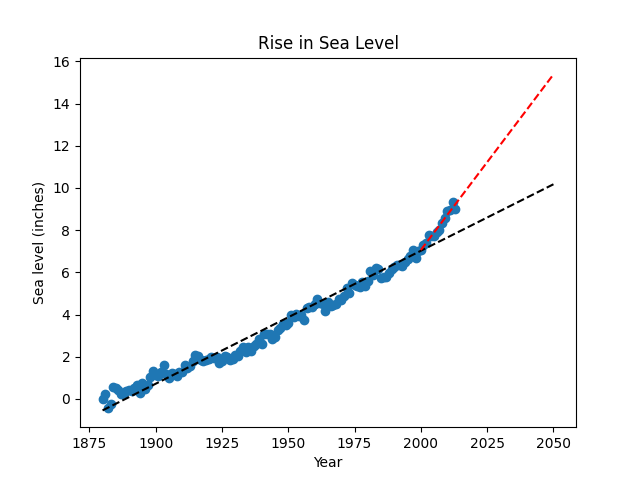
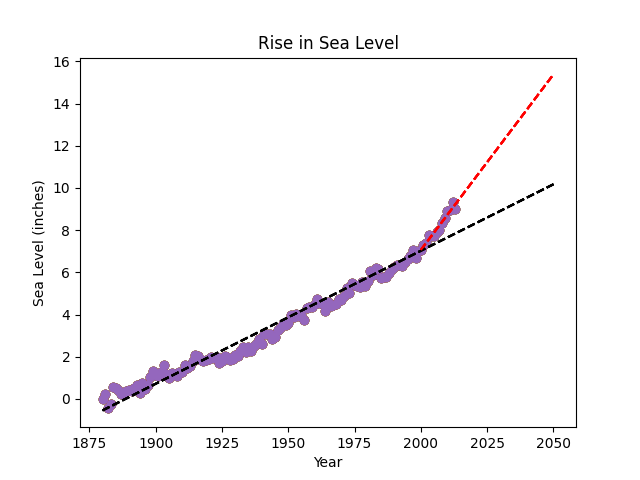
pushing solution 2

diff --git a/sea_level_predictor.py b/sea_level_predictor.py
@@ -13,18 +13,18 @@ def draw_plot():
     # Create first line of best fit
     s, i, t1, t2, t3 = linregress(x=df['Year'], y=df['CSIRO Adjusted Sea Level'])
     
-    x = np.linspace(1880, 2050, 170)
+    x = np.linspace(1880, 2050, 171)
     plt.plot(x, s*x+i, color='k', linestyle='--')
 
     # Create second line of best fit
-    x2 = np.linspace(2000, 2050, 50)
+    x2 = np.linspace(2000, 2050, 51)
     s2, i2, t1, t2, t3 = linregress(x=df[df['Year']>=2000]['Year'], y=df[df['Year']>=2000]['CSIRO Adjusted Sea Level'])
 
     plt.plot(x2, s2*x2+i2, color='r', linestyle='--')
 
     # Add labels and title
     plt.xlabel('Year')
-    plt.ylabel('Sea level (inches)')
+    plt.ylabel('Sea Level (inches)')
     plt.title('Rise in Sea Level')
     
     # Save plot and return data for testing (DO NOT MODIFY)

diff --git a/main.py b/main.py
@@ -6,4 +6,4 @@ from unittest import main
 sea_level_predictor.draw_plot()
 
 # Run unit tests automatically
-#main(module='test_module', exit=False)
+main(module='test_module', exit=False)
